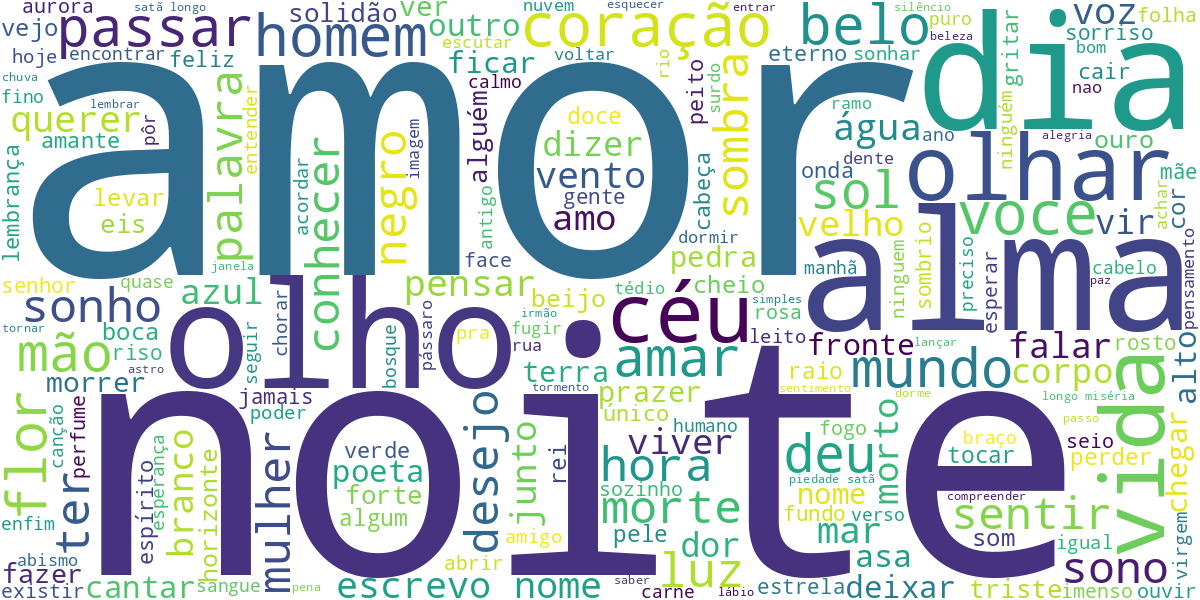
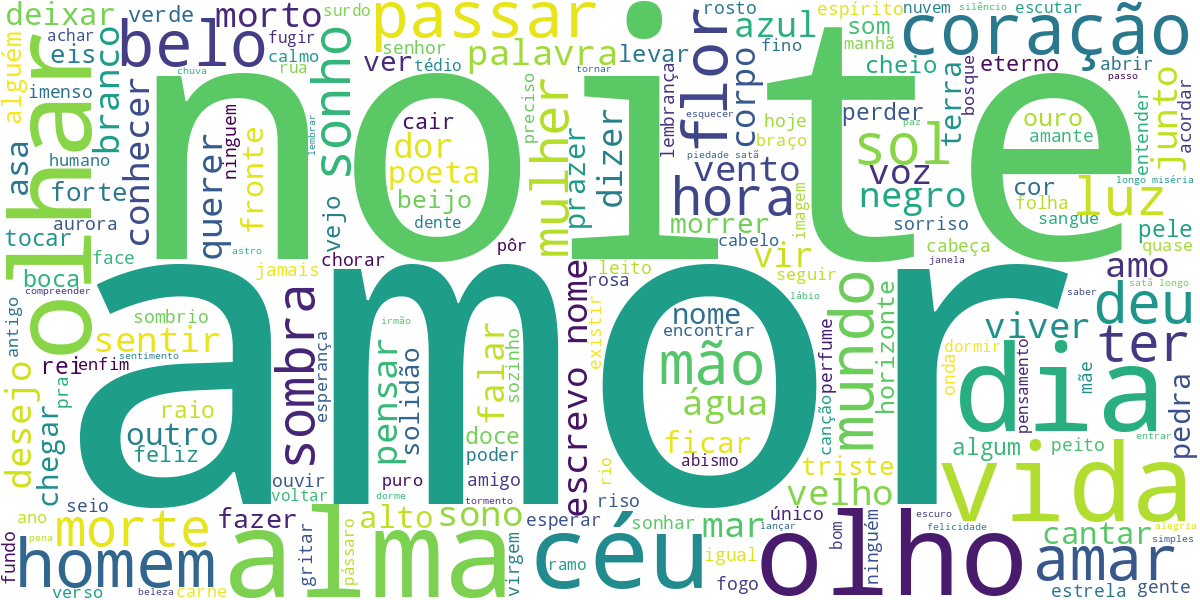
novo bertopic

diff --git a/modelagemTopicos/bertopic3.py b/modelagemTopicos/bertopic3.py
@@ -124,7 +124,7 @@ if __name__ == '__main__':
     if IDIOMA_PROC == "fr_XX":
         stopwords_personalizadas.update(["le", "la", "les", "un", "une", "jean", "john", "kaku", "lorsqu", "jusqu", "sai"])
     elif IDIOMA_PROC == "pt_XX":
-        stopwords_personalizadas.update(["o", "a", "os", "as", "um", "uma", "eu", "tu", "ele", "ela", "nós", "vós", "eles", "elas", "voce", "nao"])
+        stopwords_personalizadas.update(["o", "a", "os", "as", "um", "uma", "eu", "tu", "ele", "ela", "nós", "vós", "eles", "elas", "voce", "nao", "amo"])
     elif IDIOMA_PROC == "en_XX":
         stopwords_personalizadas.update(["the", "a", "an", "and", "but", "or", "so", "to", "of", "in", "for", "on", "at", "peter", "john", "mary", "jane", "kaku"])
     
